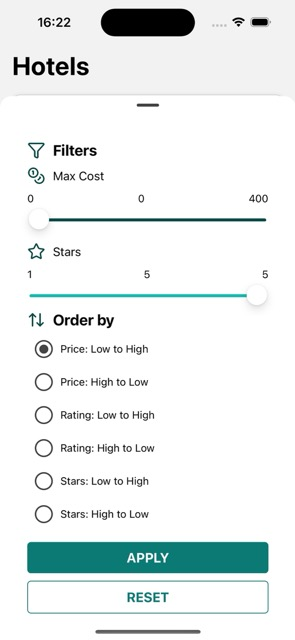
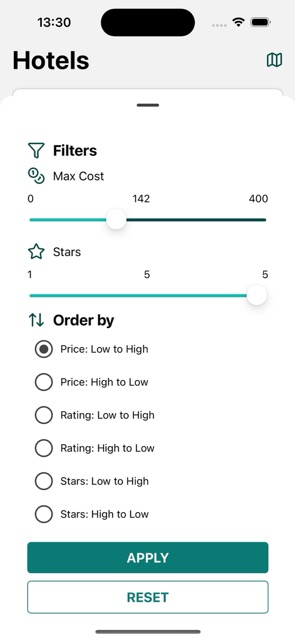
chore: Update readme to add mapview info.

diff --git a/src/ui/components/hotel-list/HotelMapList.tsx b/src/ui/components/hotel-list/HotelMapList.tsx
@@ -16,6 +16,10 @@ type HotelMapProps = {
   onPressHotel: (hotel: Hotel) => void;
 };
 
+/**
+ * This component is used to display a map of the hotels and a bottom sheet with the hotels.
+ * Uses a Modal instead of bottomsheet to render the view at the bottom of the screen.
+ */
 export const HotelMapList = ({ hotels, onPressHotel }: HotelMapProps) => {
   const firstHotel = hotels[0];
   const bottomSheetModalRef = useRef<BottomSheetModal>(null);

diff --git a/README.md b/README.md
@@ -71,6 +71,10 @@ From the Main Screen you can see the hotels at a glance. For each hotel you have
 
 From the main screen you can also access the filters sheet where you can search for hotels up to a certain cost threshold, maximum stars, or sort them.
 
+![Map View](readme-images/mapview.jpeg)
+
+And finally from the Main List you can see all the hotels in an Map View, markers are the library ones to be more performant. Once you tap on them it opens a little description view and from it you can tap to navigate to the actual detail screen.
+
 ![Detail Image 1](readme-images/detail.jpeg)
 ![Detail Image 2](readme-images/detail2.jpeg)
 
